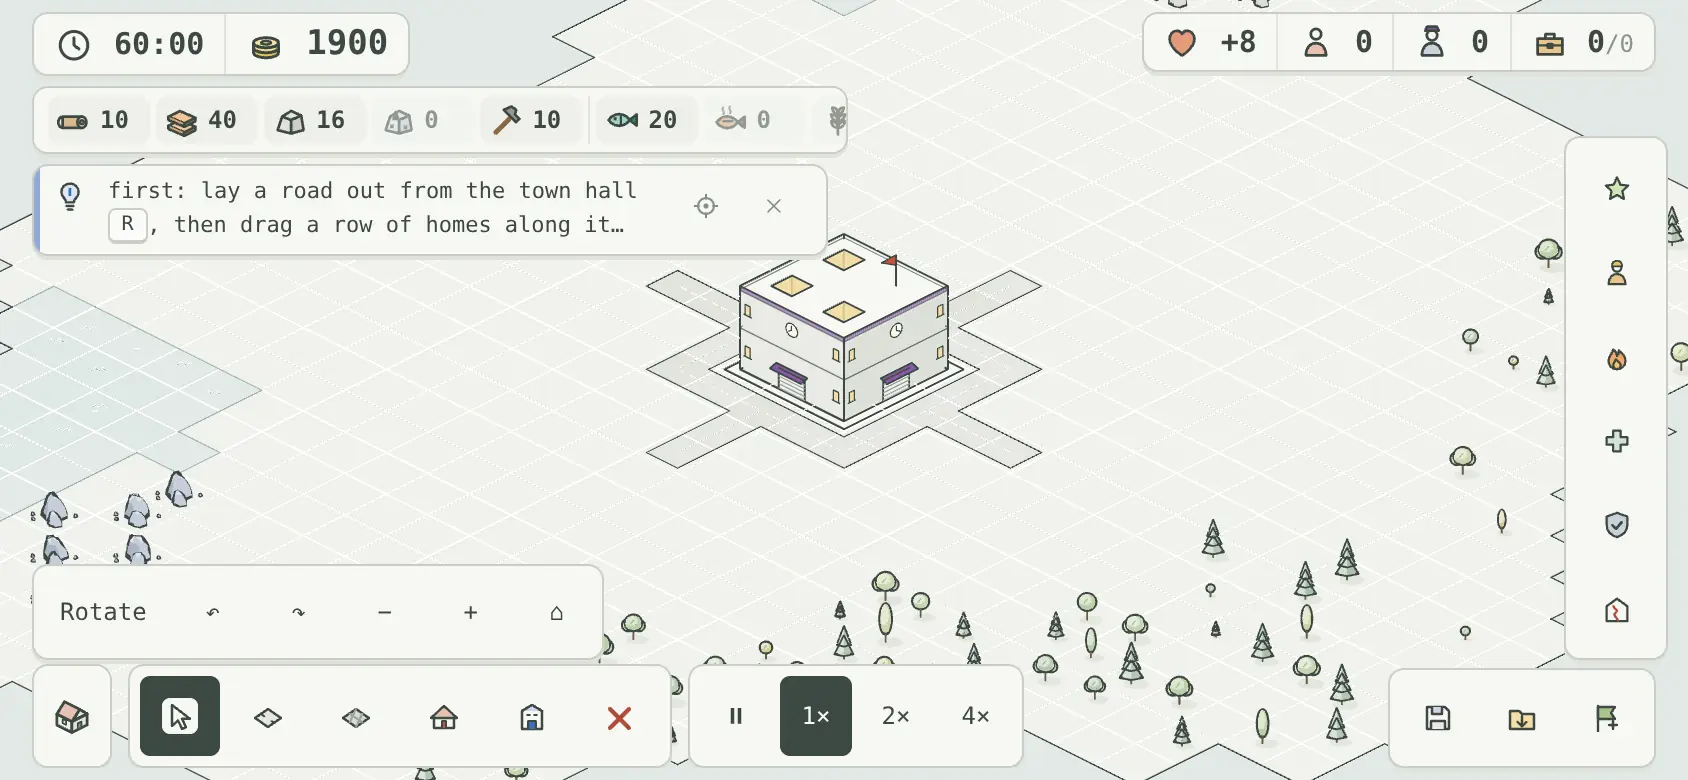
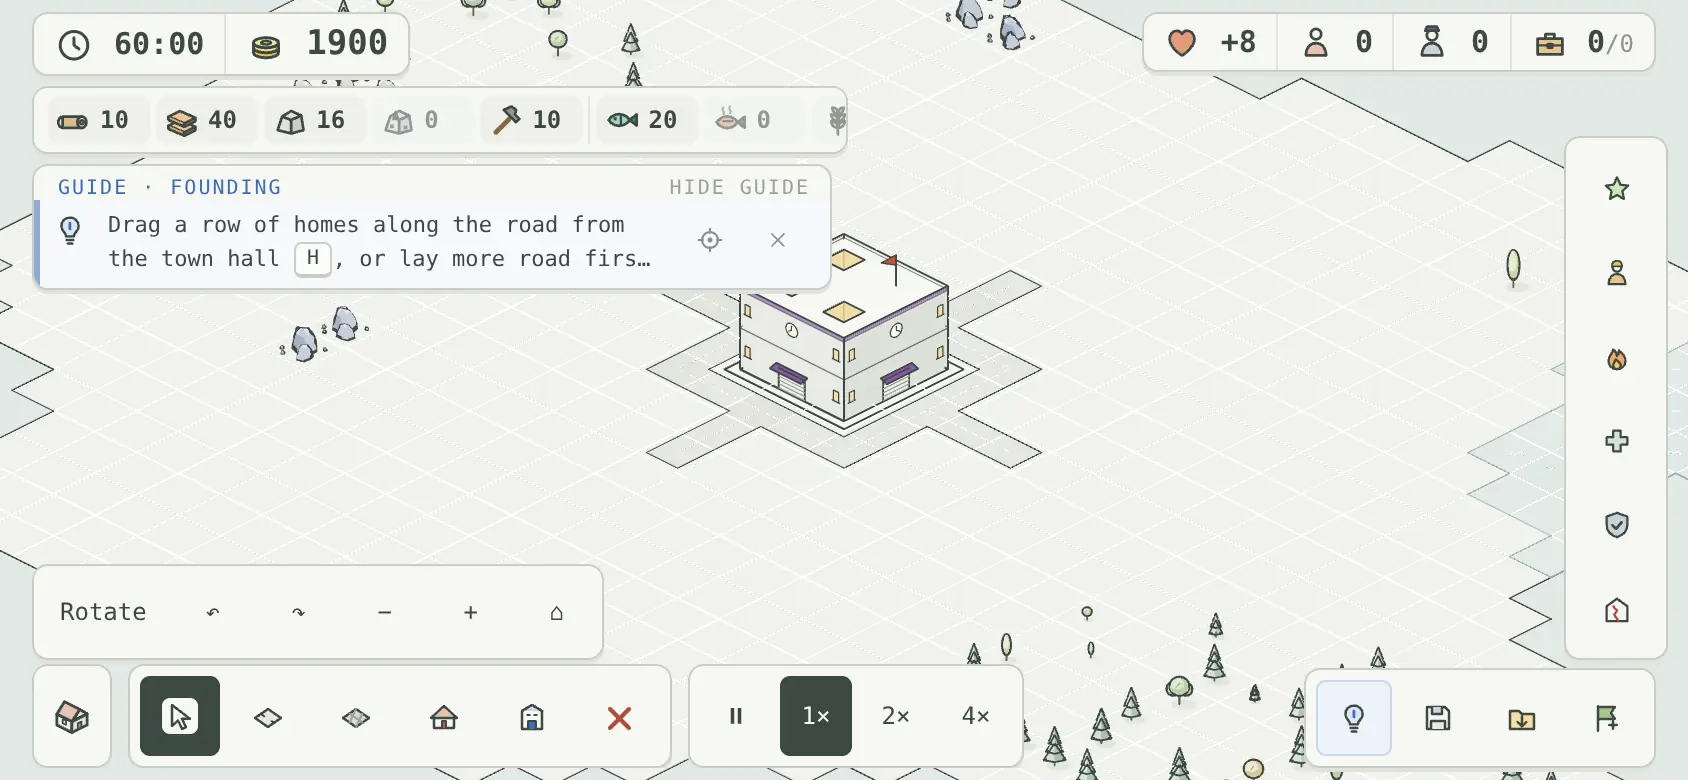
Fit the guide on phones; drop a stray brace from factory.css
Moving the old phone block out of factory.css left a closing brace behind,
which swallowed the ticker's own rule, so the ticker laid out as a row on
every screen. Remove it.

On phones the ticker keeps the guide's one-line heading (without the
progress count) above its step, and the system bar, now four buttons with
the guide toggle, is tightened so it fits beside the clock at 360px.

Claude-Session: https://claude.ai/code/session_01HVMWVr3GTFbGzg9bNJFYAR

diff --git a/src/phone.css b/src/phone.css
@@ -22,8 +22,10 @@
   .hud .good { gap: 4px; padding: 3px 7px 3px 4px; }
   .hud .good .count { font-size: 12px; }
 
-  /* The ticker: only what needs looking at now, in at most two lines. */
-  .hud .ticker .head, .hud .ticker .cell ~ .cell { display: none; }
+  /* The ticker: only what needs looking at now (the guide's step first, with its one-line heading), in at most two lines. */
+  .hud .ticker .head:not(.guide), .hud .ticker .cell ~ .cell, .hud .ticker .cell ~ .head { display: none; }
+  .hud .ticker .head.guide { padding: 6px 10px 0 12px; }
+  .hud .ticker .head.guide .progress { display: none; }
   .hud .ticker .cell { padding: 6px 4px 6px 12px; font-size: 11px; line-height: 1.45; }
   .hud .ticker .cell .text { display: -webkit-box; -webkit-box-orient: vertical; -webkit-line-clamp: 2; line-clamp: 2; overflow: hidden; }
 
@@ -75,6 +77,7 @@
   .toolbar button, .toolbar .town-button { min-width: 38px; }
   .camera-controls button { padding: 6px; min-width: 34px; }
   .toolbar .speed button { min-width: 32px; padding: 6px 4px; }
+  .system button { min-width: 32px; padding: 4px; }
 }
 
 /* ── Landscape phone: short, so the bars stay low and the panel keeps to the side ── */

diff --git a/src/factory.css b/src/factory.css
@@ -258,8 +258,6 @@ body { font-family: ui-monospace, "SF Mono", "JetBrains Mono", Menlo, monospace;
 }
 .result.show { display: block; }
 
-}
-
 /* ── The town ticker, map views and their legend ── */
 .hud .ticker { display: none; flex-direction: column; width: 440px; max-width: 100%; }
 .hud .ticker.show { display: flex; }
